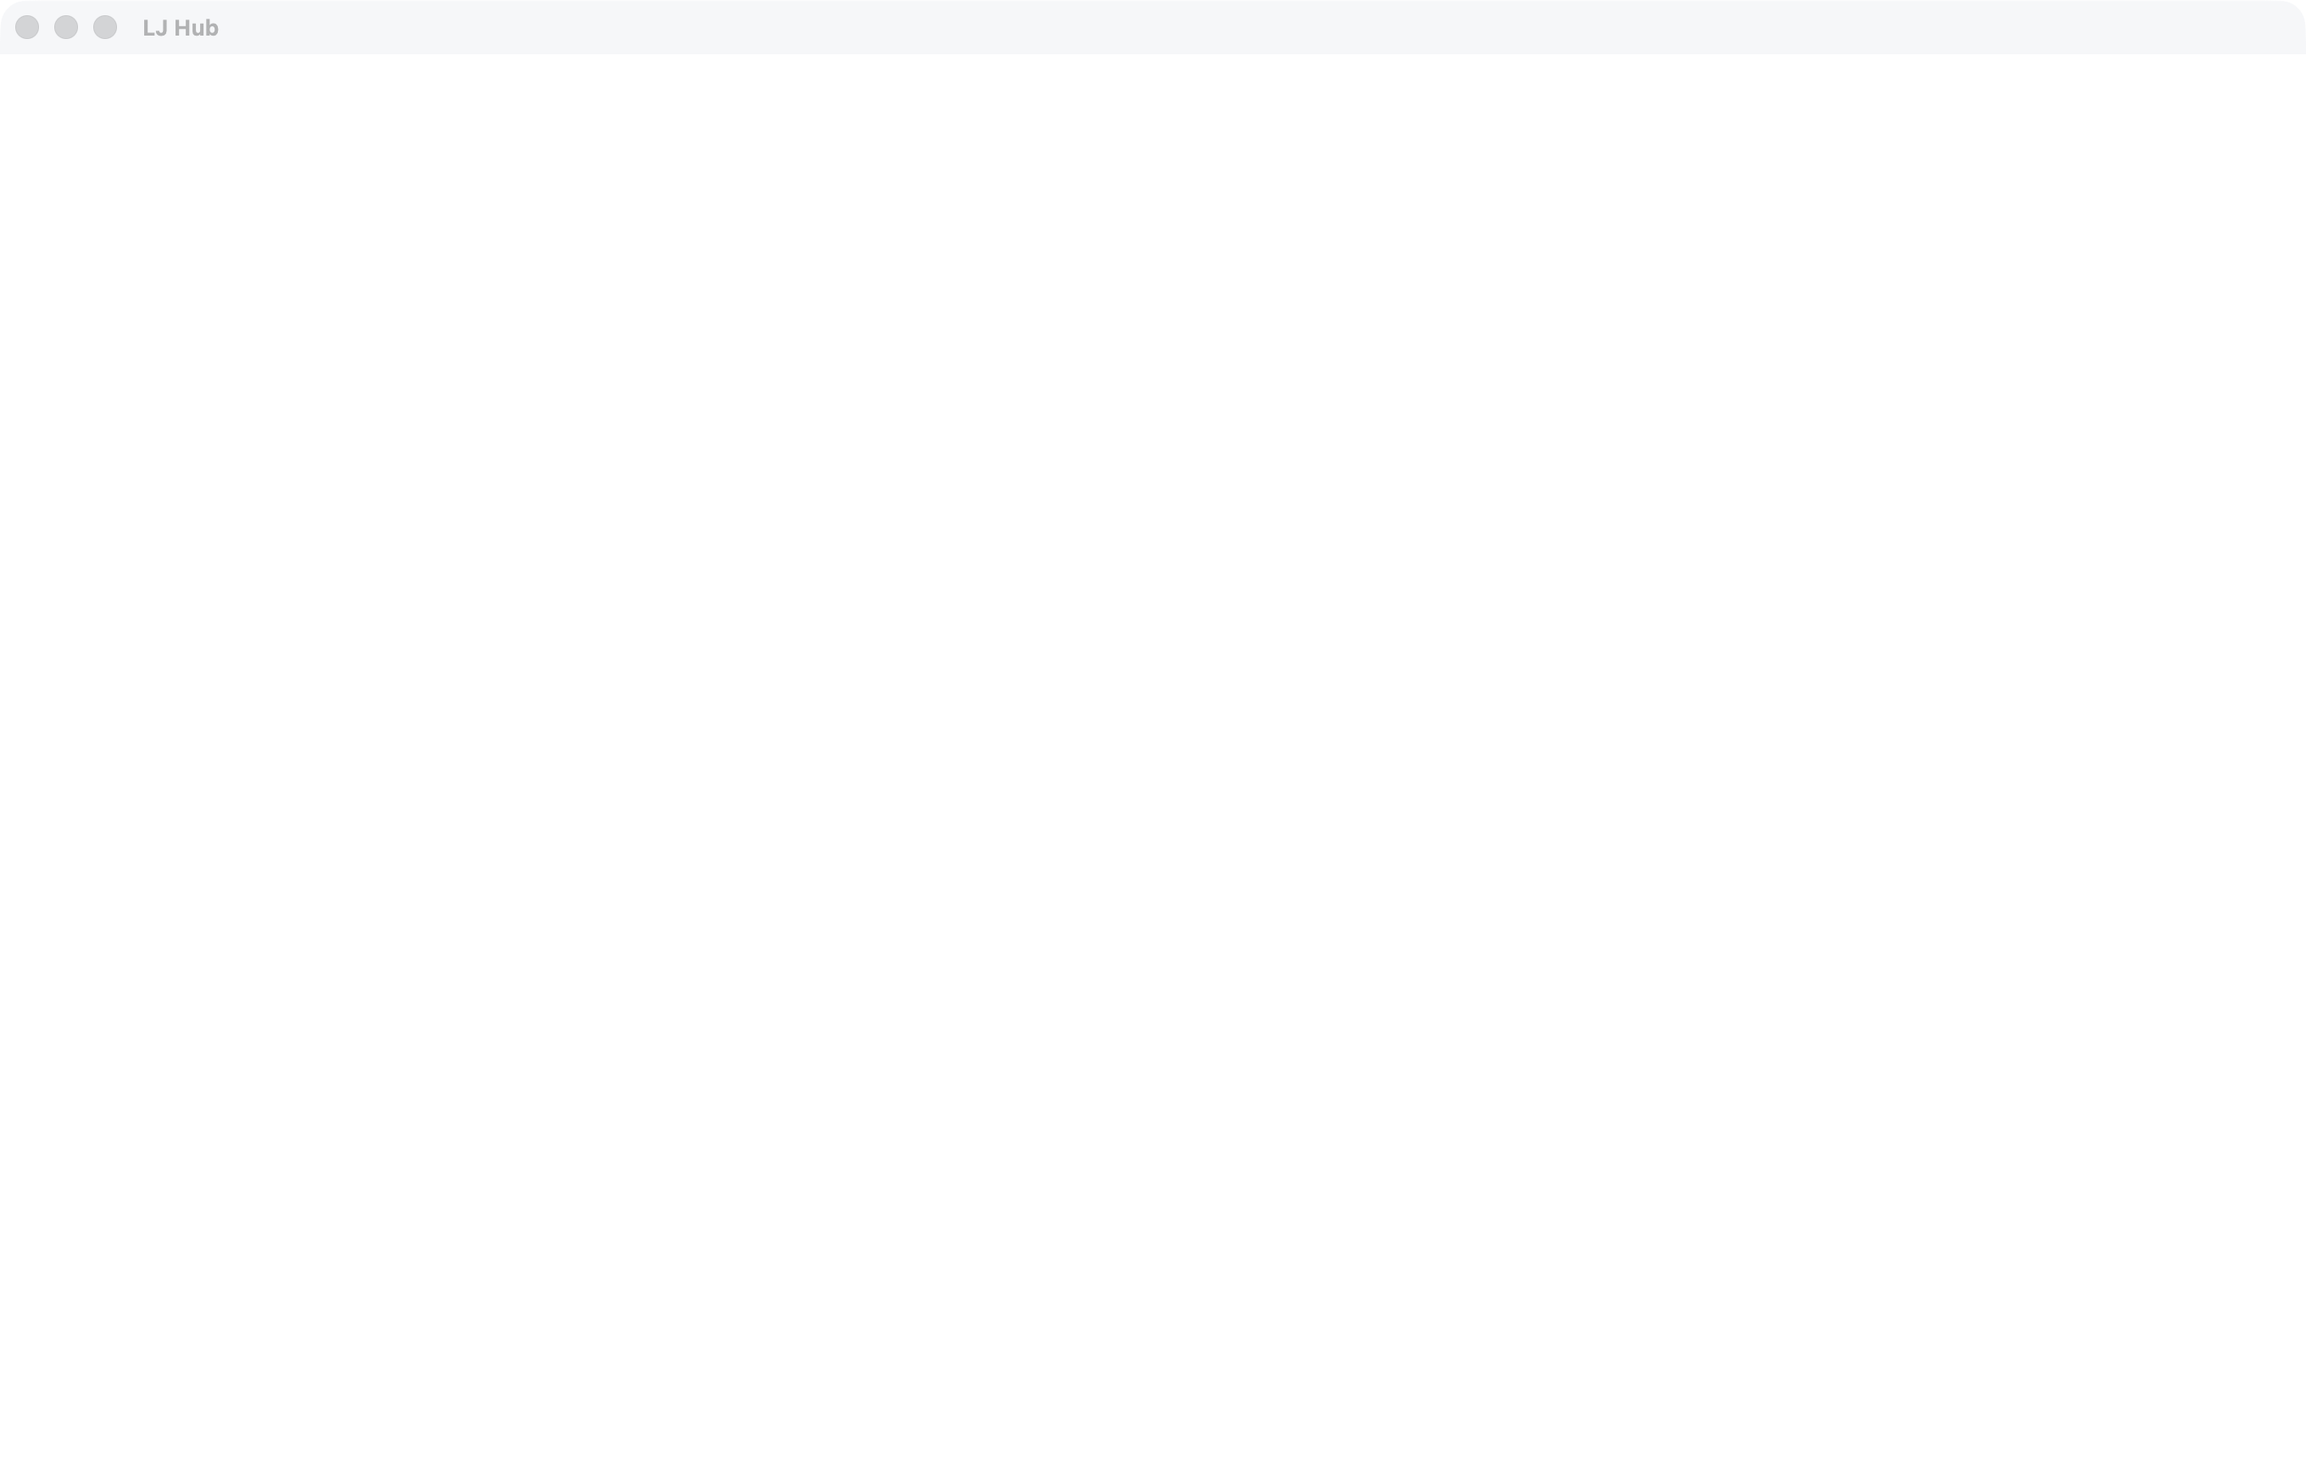
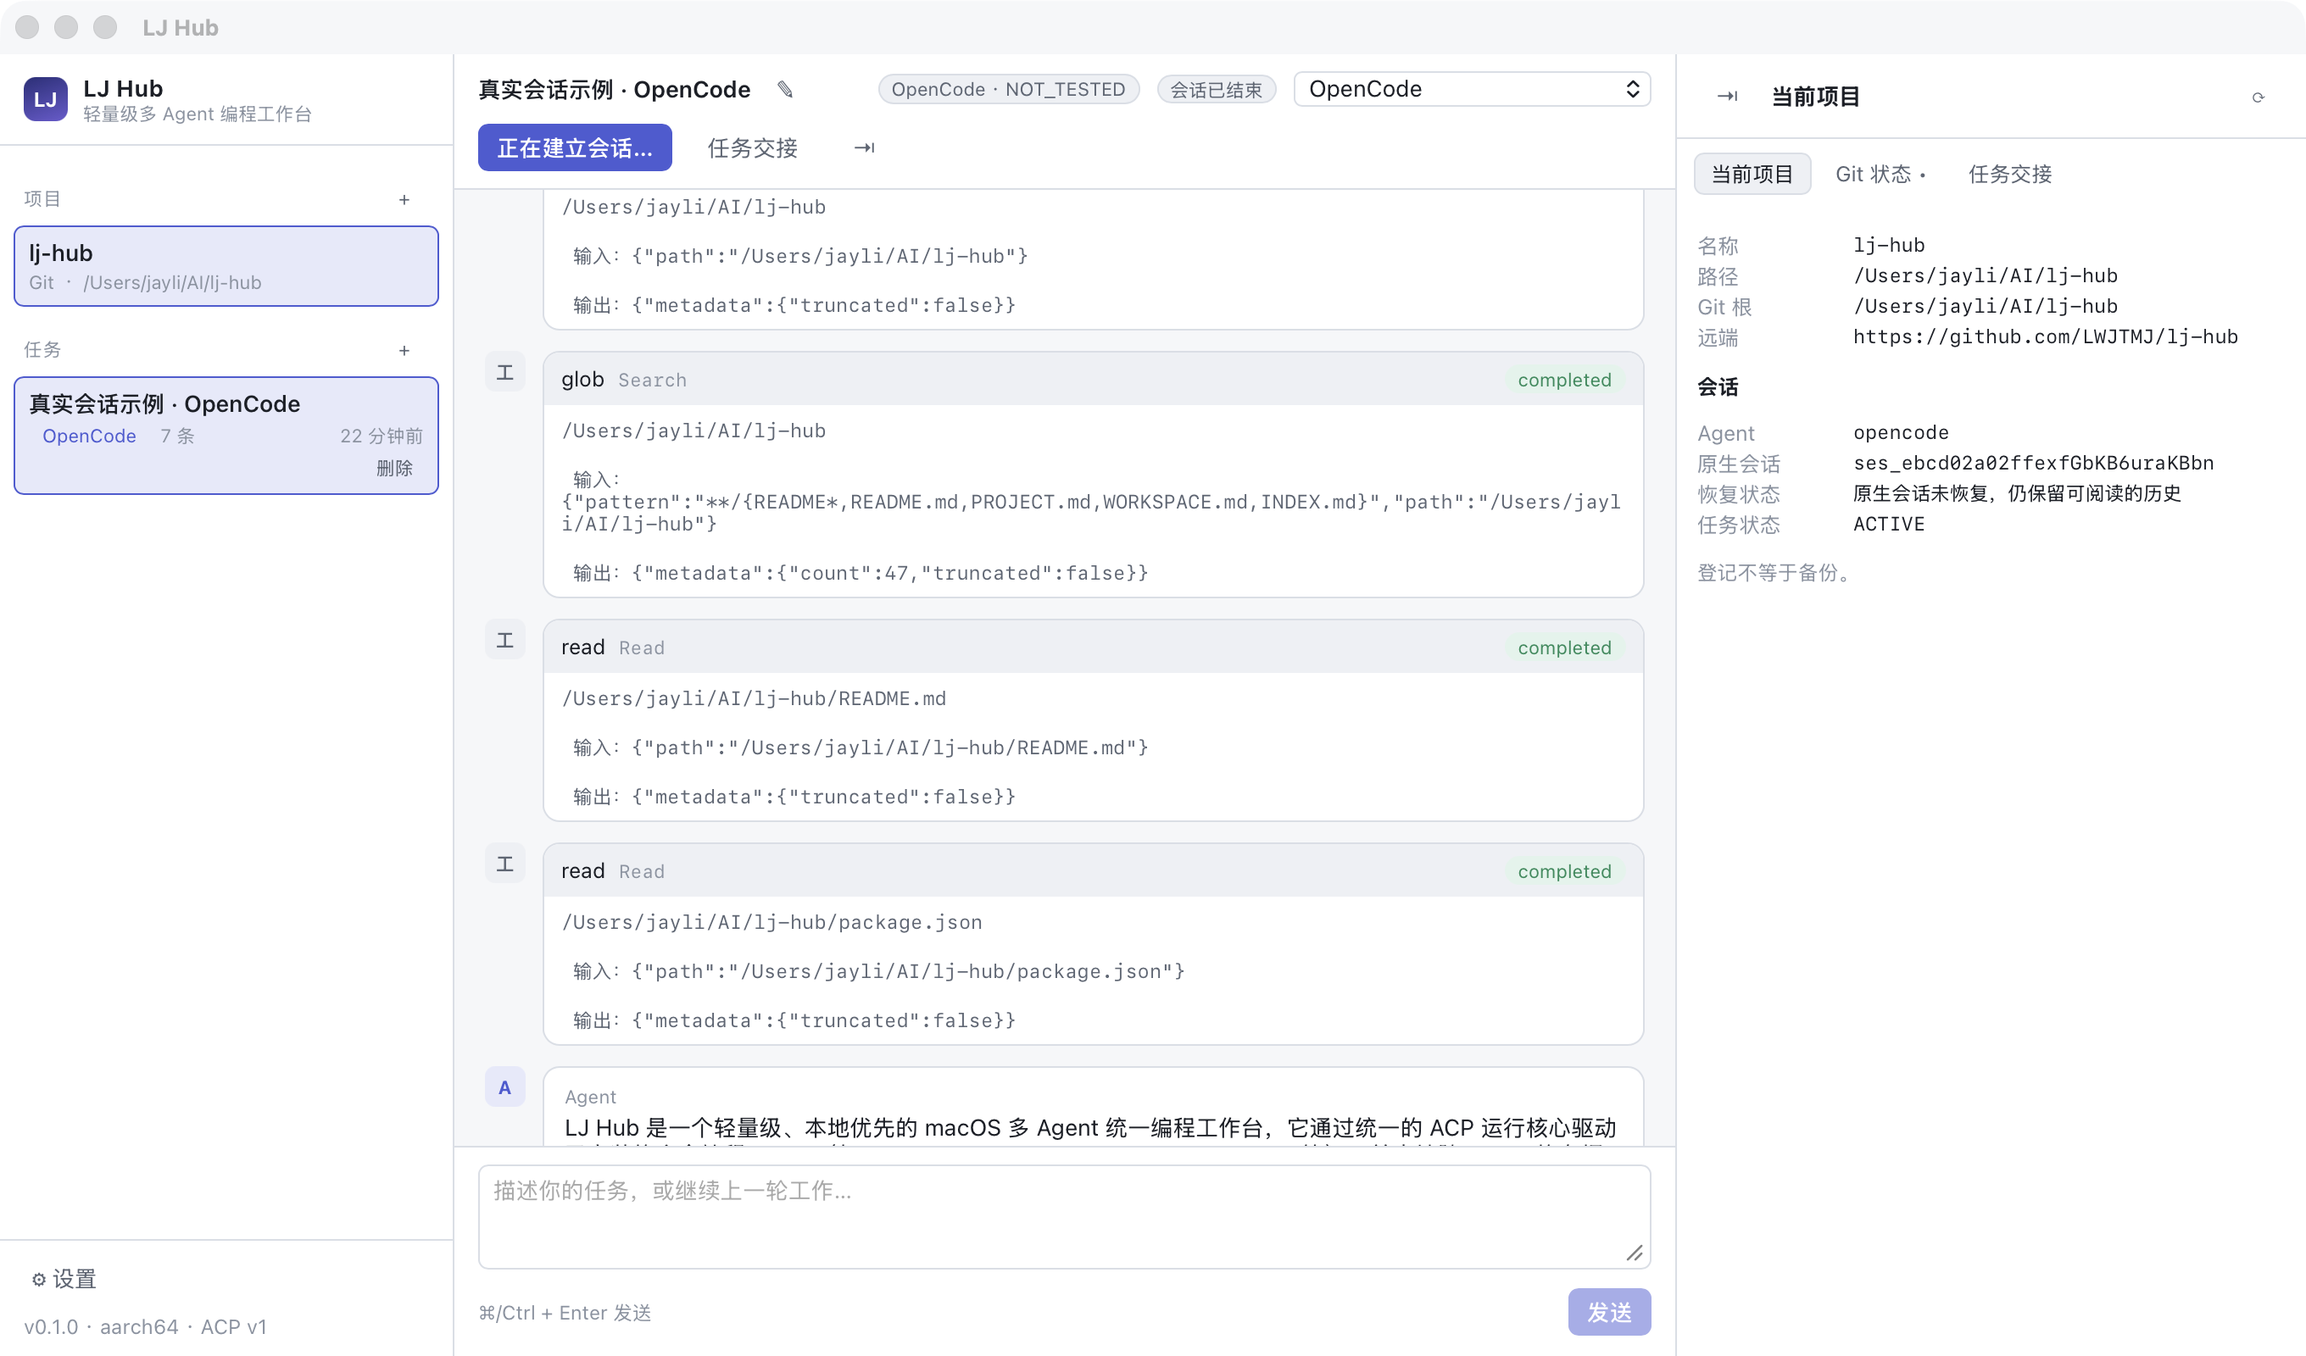
feat: reopen the last task on launch; real app screenshots
- Settings remember the last opened project/task and the UI restores it after a
  restart, so history is reachable without re-navigating (required by the
  restart-continuity requirement).
- ChatView empty state no longer claims there are no projects when a project is
  simply not selected.
- docs/images: two real screenshots of the running app (main window with a real
  OpenCode transcript; Agent management with real per-agent statuses). No
  concept art anywhere.
- LJ_HUB_SCREENSHOT_MODE / LJ_HUB_SCREENSHOT_OPEN: documentation-only helpers
  that raise the window without activating the app and can open a view, so
  screenshots are reproducible without stealing focus. Inert when unset.
- scripts/list-windows.swift: lists windows with CGWindowID (CoreGraphics), no
  Accessibility permission required; also handles always-on-top window levels.

Verified: cargo fmt/clippy clean, 40 unit + 9 ACP protocol + 4 real-agent tests
passing, vue-tsc clean, frontend build ok, macOS .app bundle rebuilt (20.05 MiB).

diff --git a/src/App.vue b/src/App.vue
@@ -115,8 +115,9 @@ async function loadGit() {
   }
 }
 
-async function openTask(taskId: string) {
+async function openTask(taskId: string, remember = true) {
   currentTaskId.value = taskId;
+  if (remember) void rememberLocation();
   try {
     task.value = await api.getTask(taskId);
     const status = await api.sessionStatus(taskId);
@@ -336,10 +337,30 @@ function handleEvent(envelope: SessionEventEnvelope) {
   }
 }
 
+async function rememberLocation() {
+  try {
+    await api.setLastOpened(currentProjectId.value, currentTaskId.value);
+  } catch {
+    // Remembering the last location is a convenience; never surface failures.
+  }
+}
+
 watch(currentProjectId, async () => {
   await loadGit();
   await loadTasks();
 });
+
+async function restoreLocation() {
+  const projectId = settings.value.last_project_id ?? null;
+  if (projectId && projects.value.some((p) => p.id === projectId)) {
+    currentProjectId.value = projectId;
+    await loadTasks();
+    const taskId = settings.value.last_task_id ?? null;
+    if (taskId && tasks.value.some((t) => t.id === taskId)) {
+      await openTask(taskId, false);
+    }
+  }
+}
 
 onMounted(async () => {
   try {
@@ -352,6 +373,11 @@ onMounted(async () => {
   await loadAgents();
   await loadGit();
   await loadTasks();
+  await restoreLocation();
+  // Documentation helper: LJ_HUB_SCREENSHOT_OPEN=settings opens that view
+  // immediately so docs screenshots need no synthetic clicks.
+  if (info.value?.screenshot_open === "settings") showSettings.value = true;
+  if (info.value?.screenshot_open === "handoff") showHandoff.value = true;
   unlisten = await onSessionEvent(handleEvent);
   window
     .matchMedia?.("(prefers-color-scheme: dark)")

diff --git a/src/i18n.ts b/src/i18n.ts
@@ -14,6 +14,7 @@ const zh = {
   newTask: "新建任务",
   noProjects: "还没有项目。先打开一个本地 Git 仓库目录。",
   noTasks: "这个项目还没有任务。",
+  noTaskSelected: "从左侧选择一个任务，或新建一个任务；也可以先打开一个本地 Git 仓库目录。",
   settings: "设置",
   agent: "Agent",
   agents: "Agent 管理",
@@ -123,6 +124,8 @@ const en: typeof zh = {
   newTask: "New task",
   noProjects: "No projects yet. Open a local Git repository directory.",
   noTasks: "No tasks for this project yet.",
+  noTaskSelected:
+    "Pick a task on the left or create a new one; you can also open a local Git repository directory.",
   settings: "Settings",
   agent: "Agent",
   agents: "Agent management",

diff --git a/scripts/list-windows.swift b/scripts/list-windows.swift
@@ -26,8 +26,11 @@ for window in windows {
     let width = (bounds["Width"] as? Double) ?? 0
     let height = (bounds["Height"] as? Double) ?? 0
 
-    // Only real, reasonably sized windows.
-    guard layer == 0, width > 400, height > 300 else { continue }
+    // Real, reasonably sized windows. Always-on-top windows live on a higher
+    // window level, so the layer filter is relaxed when filtering by name.
+    let matchesNeedle =
+        needle.map { owner.lowercased().contains($0) || title.lowercased().contains($0) } ?? false
+    guard width > 400, height > 300, (layer == 0 || matchesNeedle) else { continue }
     if let needle, !(owner.lowercased().contains(needle) || title.lowercased().contains(needle)) {
         continue
     }

diff --git a/src/types.ts b/src/types.ts
@@ -248,6 +248,7 @@ export interface AppInfo {
   arch: string;
   git_available: boolean;
   protocol: string;
+  screenshot_open?: string | null;
 }
 
 export interface SessionStatus {
@@ -313,6 +314,8 @@ export interface Settings {
   theme: string;
   locale: string;
   agent_overrides: Record<string, AgentOverride>;
+  last_project_id?: string | null;
+  last_task_id?: string | null;
 }
 
 export interface AgentOverride {

diff --git a/src/api.ts b/src/api.ts
@@ -140,6 +140,8 @@ export const api = {
 
   // settings
   getSettings: () => invoke<Settings>("get_settings"),
+  setLastOpened: (projectId: string | null, taskId: string | null) =>
+    invoke<void>("set_last_opened", { projectId, taskId }),
   setTheme: (theme: string) => invoke<void>("set_theme", { theme }),
   setLocale: (locale: string) => invoke<void>("set_locale", { locale }),
 };

diff --git a/src/components/ChatView.vue b/src/components/ChatView.vue
@@ -158,7 +158,8 @@ const statusClass = computed(() => {
 <template>
   <main class="chat">
     <div v-if="!task" class="empty">
-      <p>{{ labels.noProjects }}</p>
+      <p>{{ labels.appName }}</p>
+      <p class="hint">{{ labels.noTaskSelected }}</p>
     </div>
 
     <template v-else>

diff --git a/src-tauri/src/app.rs b/src-tauri/src/app.rs
@@ -435,6 +435,24 @@ pub fn run() {
             state.set_app(app.handle().clone());
             state.refresh_index();
             app.manage(state);
+
+            // Documentation helper: `LJ_HUB_SCREENSHOT_MODE=topmost` raises the
+            // window above other applications **without activating it**, so a
+            // real screenshot can be taken while another app keeps focus.
+            // Without the variable this code does nothing.
+            if std::env::var("LJ_HUB_SCREENSHOT_MODE").is_ok() {
+                // Applied after the window has been shown: touching the window
+                // flags during setup() prevents it from appearing on macOS.
+                if let Some(window) = app.get_webview_window("main") {
+                    std::thread::spawn(move || {
+                        std::thread::sleep(std::time::Duration::from_millis(2000));
+                        let _ = window.show();
+                        let _ = window.set_size(tauri::LogicalSize::new(1360.0, 800.0));
+                        let _ = window.set_position(tauri::LogicalPosition::new(24.0, 48.0));
+                        let _ = window.set_always_on_top(true);
+                    });
+                }
+            }
             Ok(())
         })
         .invoke_handler(tauri::generate_handler![
@@ -475,6 +493,7 @@ pub fn run() {
             crate::commands::remove_artifact,
             crate::commands::read_requirement_file,
             crate::commands::get_settings,
+            crate::commands::set_last_opened,
             crate::commands::set_theme,
             crate::commands::set_locale,
             crate::commands::import_requirements,

diff --git a/src-tauri/src/commands.rs b/src-tauri/src/commands.rs
@@ -33,6 +33,10 @@ pub struct AppInfo {
     pub arch: String,
     pub git_available: bool,
     pub protocol: String,
+    /// Documentation helper: when LJ_HUB_SCREENSHOT_OPEN is set, the UI opens
+    /// that view right after start so screenshots can be taken without
+    /// synthetic clicks. Purely local, no effect unless the variable is set.
+    pub screenshot_open: Option<String>,
 }
 
 #[tauri::command]
@@ -45,6 +49,7 @@ pub fn app_info(state: State<'_, AppState>) -> AppInfo {
         arch: std::env::consts::ARCH.to_string(),
         git_available: agents::which("git").is_some(),
         protocol: "ACP v1 (agent-client-protocol 3.x)".into(),
+        screenshot_open: std::env::var("LJ_HUB_SCREENSHOT_OPEN").ok(),
     }
 }
 
@@ -1150,6 +1155,21 @@ pub fn get_settings(state: State<'_, AppState>) -> Settings {
         .lock()
         .map(|s| s.settings.clone())
         .unwrap_or_default()
+}
+
+/// Remember where the user was, so the next launch reopens it.
+#[tauri::command]
+pub fn set_last_opened(
+    state: State<'_, AppState>,
+    project_id: Option<String>,
+    task_id: Option<String>,
+) -> Result<(), String> {
+    let mut store = state.state.lock().map_err(|e| e.to_string())?;
+    if let Some(project_id) = project_id {
+        store.settings.last_project_id = Some(project_id);
+    }
+    store.settings.last_task_id = task_id;
+    state.store.save_state(&store).map_err(|e| e.to_string())
 }
 
 #[tauri::command]

diff --git a/src-tauri/src/model.rs b/src-tauri/src/model.rs
@@ -325,6 +325,12 @@ pub struct Settings {
     pub theme: String,
     pub locale: String,
     pub agent_overrides: std::collections::BTreeMap<String, AgentOverride>,
+    /// Last opened project/task, so restarting the app lands the user back in
+    /// the same conversation instead of an empty window.
+    #[serde(default)]
+    pub last_project_id: Option<String>,
+    #[serde(default)]
+    pub last_task_id: Option<String>,
 }
 
 #[derive(Debug, Clone, Serialize, Deserialize, Default)]

diff --git a/docs/images/README.md b/docs/images/README.md
@@ -1,36 +1,38 @@
-# 截图状态（诚实说明）
+# 截图
 
-本目录**目前没有应用窗口截图**。原因与处理方式如实记录如下，不使用任何概念图、示意图或
-设计稿冒充应用截图。
+本目录中的图片是**真实运行中的 LJ Hub 窗口截图**，不是概念图或设计稿。
 
-## 为什么暂时没有
+| 文件 | 内容 |
+|---|---|
+| `01-main-window.png` | 主窗口：左侧真实项目/任务列表，中间是真实的 OpenCode 会话记录（真实工具调用 `glob` / `read` 与真实回答），右侧是真实的 Git 路径、原生会话 id 与"原生会话未恢复，仍保留可阅读的历史"提示 |
+| `02-agent-management.png` | 设置 → Agent 管理：各组件的真实检测状态（Codex `NOT_INSTALLED`、WorkBuddy `CONFIG_REQUIRED`、Qoder / Qoder CN `NOT_INSTALLED`）与"尚未进行 ACP 握手测试，不能视为可用"的说明 |
 
-截图需要把 LJ Hub 窗口带到前台才能被 macOS 截取（被完全遮挡的窗口，
-`screencapture -l <window-id>` 只会返回空白内容，已实测确认）。
-在生成这份文档时，这台机器上正有另一个 AI 客户端在跑长任务，
-为避免抢占前台、干扰其工作，本次没有激活 LJ Hub 窗口。
+## 截图是怎么来的（可复现）
 
-## 如何补上（约 10 秒）
+被完全遮挡的窗口在 macOS 上截不出内容（`screencapture -l` 会返回空白），
+所以 LJ Hub 提供了一个**仅用于文档取证**的启动参数，不会改变你的前台应用焦点：
 
 ```bash
-# 1. 找到 LJ Hub 的窗口 ID（无需辅助功能权限，也不会改变前台窗口）
+# 1) 让窗口浮到最上层（不激活应用，不抢键盘焦点）
+LJ_HUB_SCREENSHOT_MODE=topmost \
+  "./src-tauri/target/release/bundle/macos/LJ Hub.app/Contents/MacOS/lj-hub" &
+
+# 2) 找到窗口 ID（CoreGraphics，无需辅助功能权限）
 swift scripts/list-windows.swift "LJ Hub"
 
-# 2. 让 LJ Hub 窗口可见（手动点一下 Dock 图标或切换过去），然后：
-screencapture -l <上一步输出的窗口ID> -o -x docs/images/01-main-window.png
+# 3) 截取该窗口
+screencapture -l <窗口ID> -o -x docs/images/01-main-window.png
 
-# 3. 建议同时补两张：
-#    - 设置 → Agent 管理（显示真实状态与"连接测试"结果）
-#    - 任务交接对话框（显示五项核验结果）
+# 需要对话框截图时，让界面直接打开对应视图：
+LJ_HUB_SCREENSHOT_MODE=topmost LJ_HUB_SCREENSHOT_OPEN=settings \
+  "./src-tauri/target/release/bundle/macos/LJ Hub.app/Contents/MacOS/lj-hub" &
 ```
 
-## 已经提供的真实证据（非截图）
+这两个环境变量在未设置时**完全不生效**；它们只用于文档取证，不参与任何业务逻辑。
 
-README 与 `docs/` 中使用的是可直接复现的命令输出与文件事实，而不是图片：
+## 数据来源
 
-- 真实 ACP 握手与真实模型回合的结果（`cargo test --test real_agents -- --nocapture`）；
-- 本机各 Agent 的检测结论（`report_real_agent_availability`）；
-- 构建产物路径、大小与 SHA-256；
-- 应用数据目录的真实文件布局。
-
-这些证据任何人都能在自己机器上重跑验证，比一张无法验证的截图更强。
+截图里的会话内容来自一次真实回合：LJ Hub 通过 ACP 驱动本机已安装的 OpenCode，
+在 `/Users/jayli/AI/lj-hub` 项目里问了"请用一句话说明这个项目是做什么的"，
+OpenCode 读取了 `README.md`、`package.json` 等文件后给出了回答，全部由 LJ Hub 自己落盘。
+没有任何演示数据、假会话或占位文本。

diff --git a/README.md b/README.md
@@ -215,13 +215,20 @@ npm run build
 
 ## 界面截图
 
-**当前仓库还没有应用窗口截图，这里也没有任何概念图或设计稿。**
-原因与补图方法写在 [`docs/images/README.md`](docs/images/README.md)：
-被完全遮挡的窗口在 macOS 上截不出来（已实测），而生成文档时本机正有另一个 AI 在跑长任务，
-为避免抢占前台没有激活窗口。
+下面两张都是**真实运行中的 LJ Hub 窗口截图**（不是概念图、不是设计稿）：
 
-README 中提供的是可复现的命令输出与文件事实（真实握手结果、真实模型回合、构建产物哈希），
-这些比无法验证的截图更可靠。
+![主窗口](docs/images/01-main-window.png)
+
+左侧是真实项目与任务；中间是真实的 OpenCode 会话记录（真实工具调用 `glob` / `read` 与真实回答）；
+右侧显示真实 Git 路径、原生会话 id，以及"原生会话未恢复，仍保留可阅读的历史"——
+没有恢复成功就绝不写成已恢复。
+
+![Agent 管理](docs/images/02-agent-management.png)
+
+设置 → Agent 管理显示各组件在本机的真实状态与能力；
+"尚未进行 ACP 握手测试，不能视为可用"是界面上的硬性提示。
+
+截图的复现方式（含"窗口被遮挡时如何截取"）写在 [`docs/images/README.md`](docs/images/README.md)。
 
 ---
 
